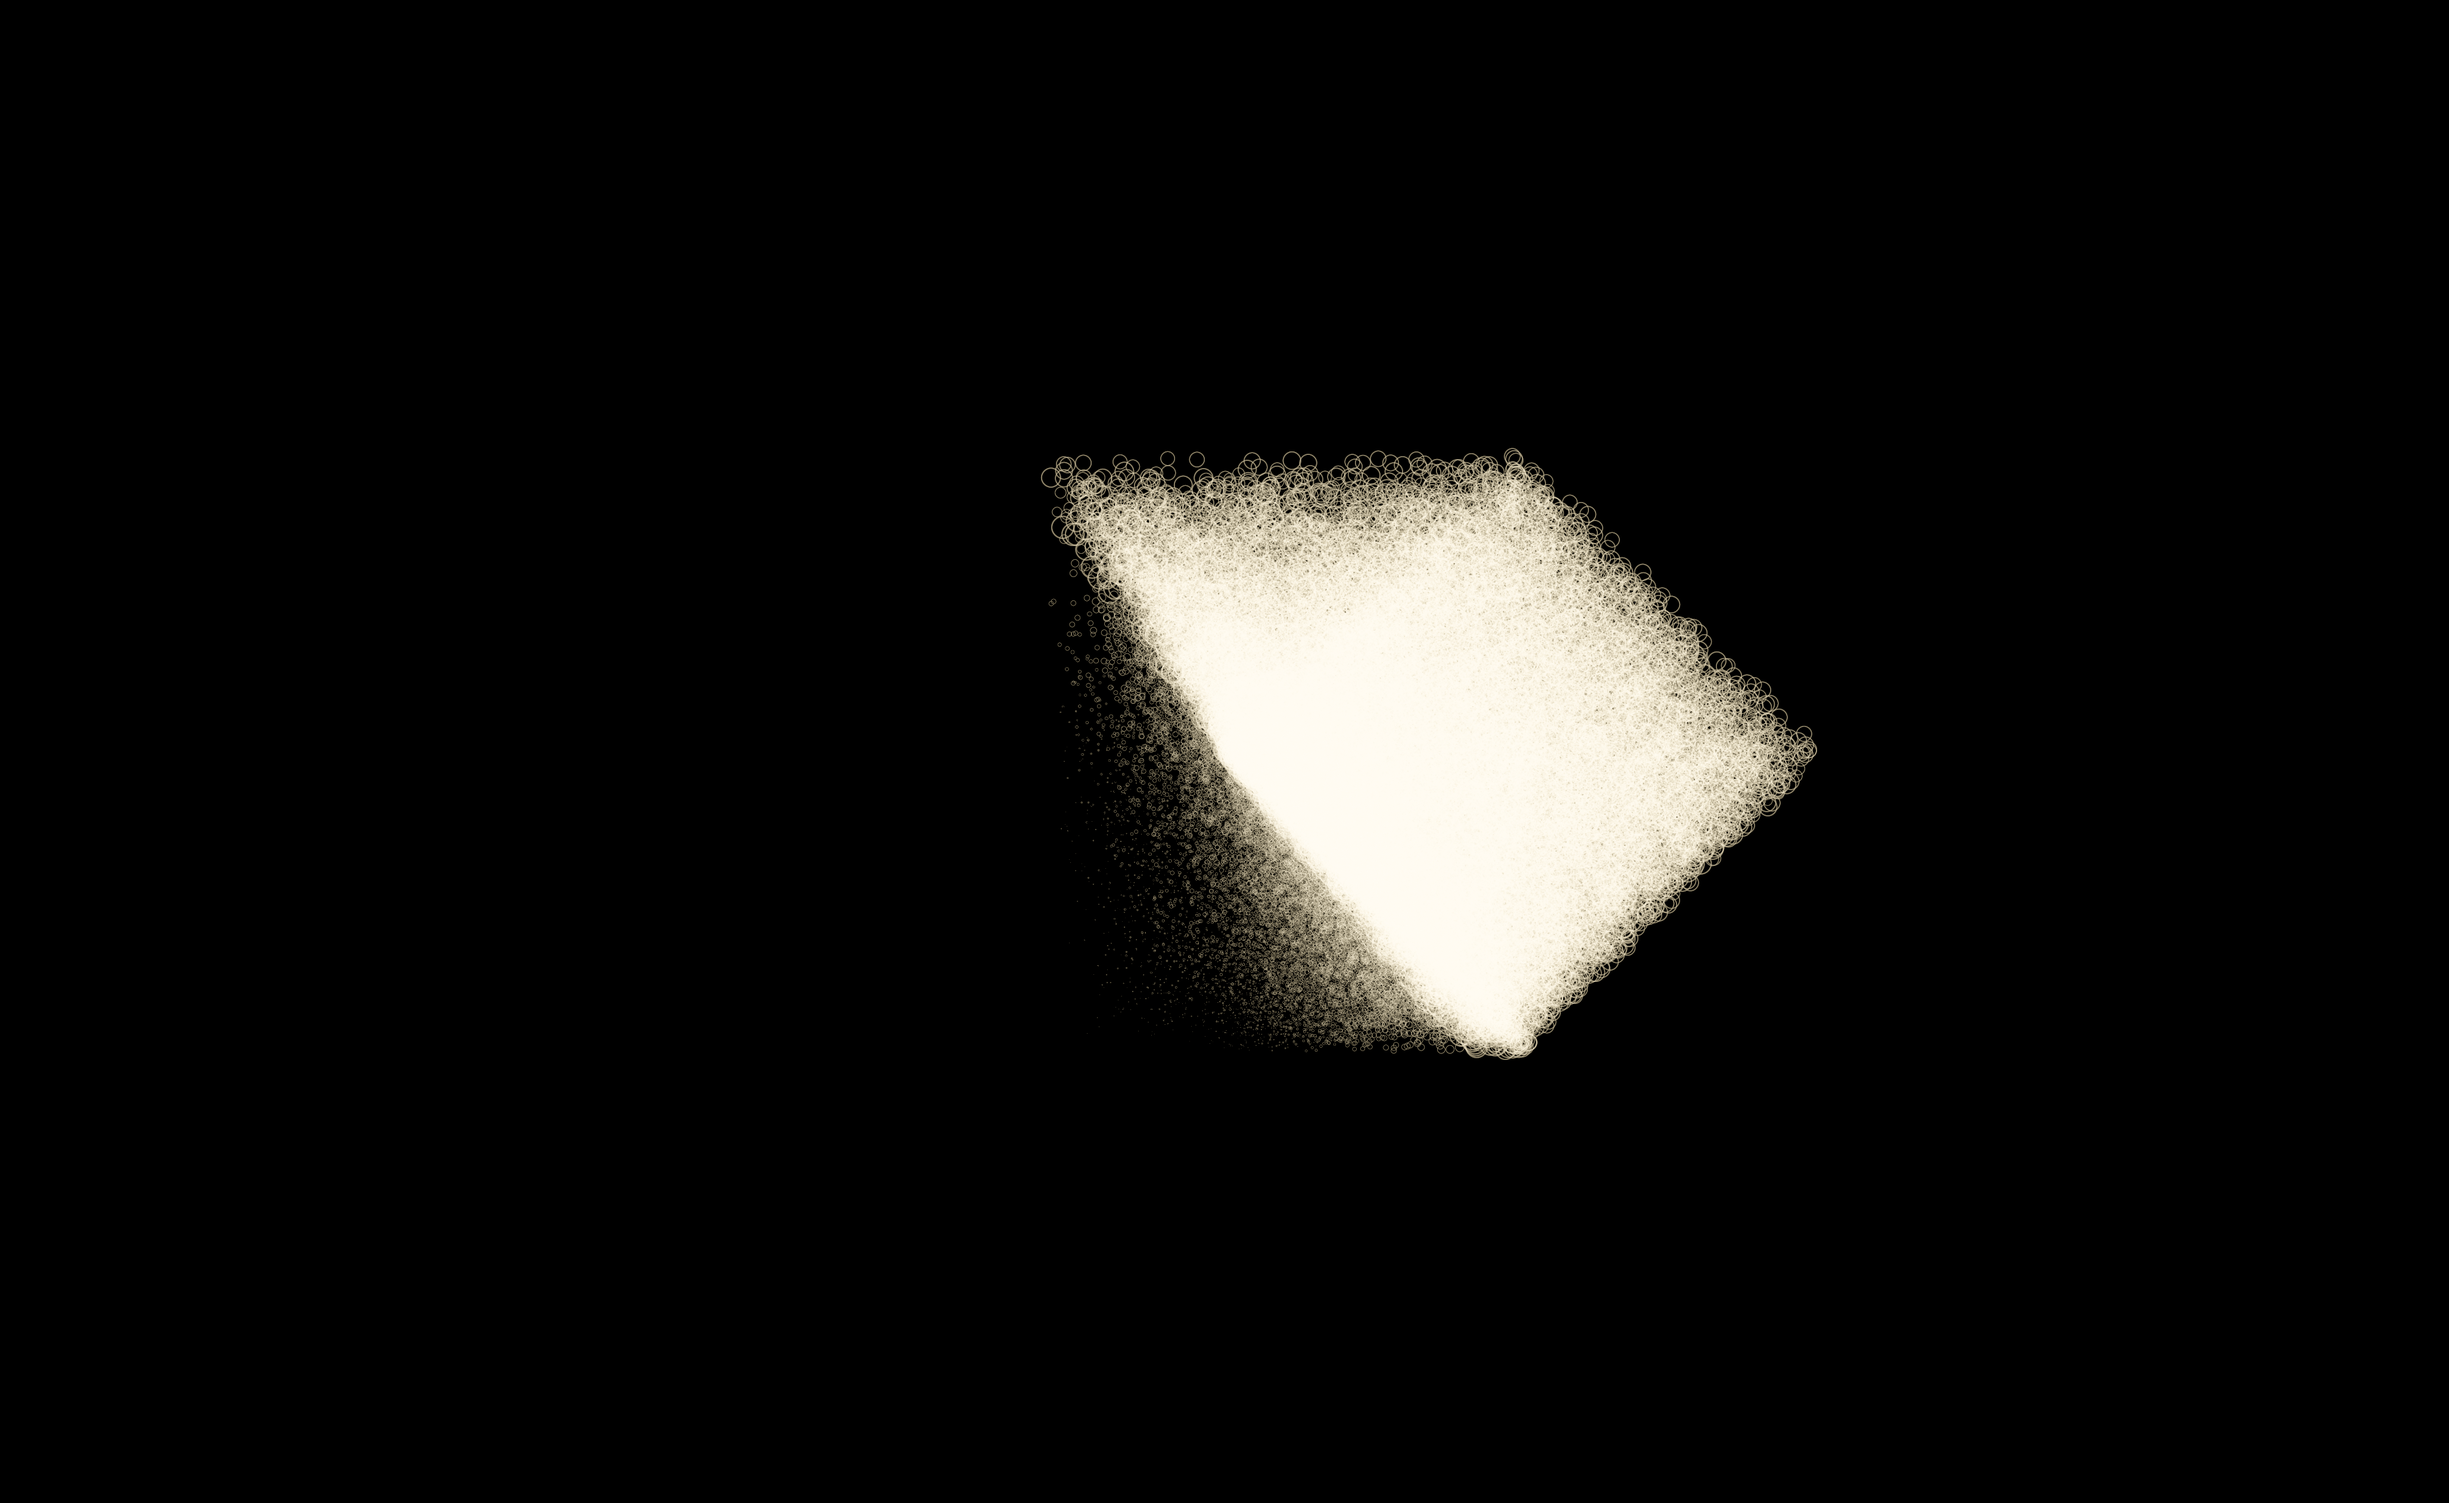
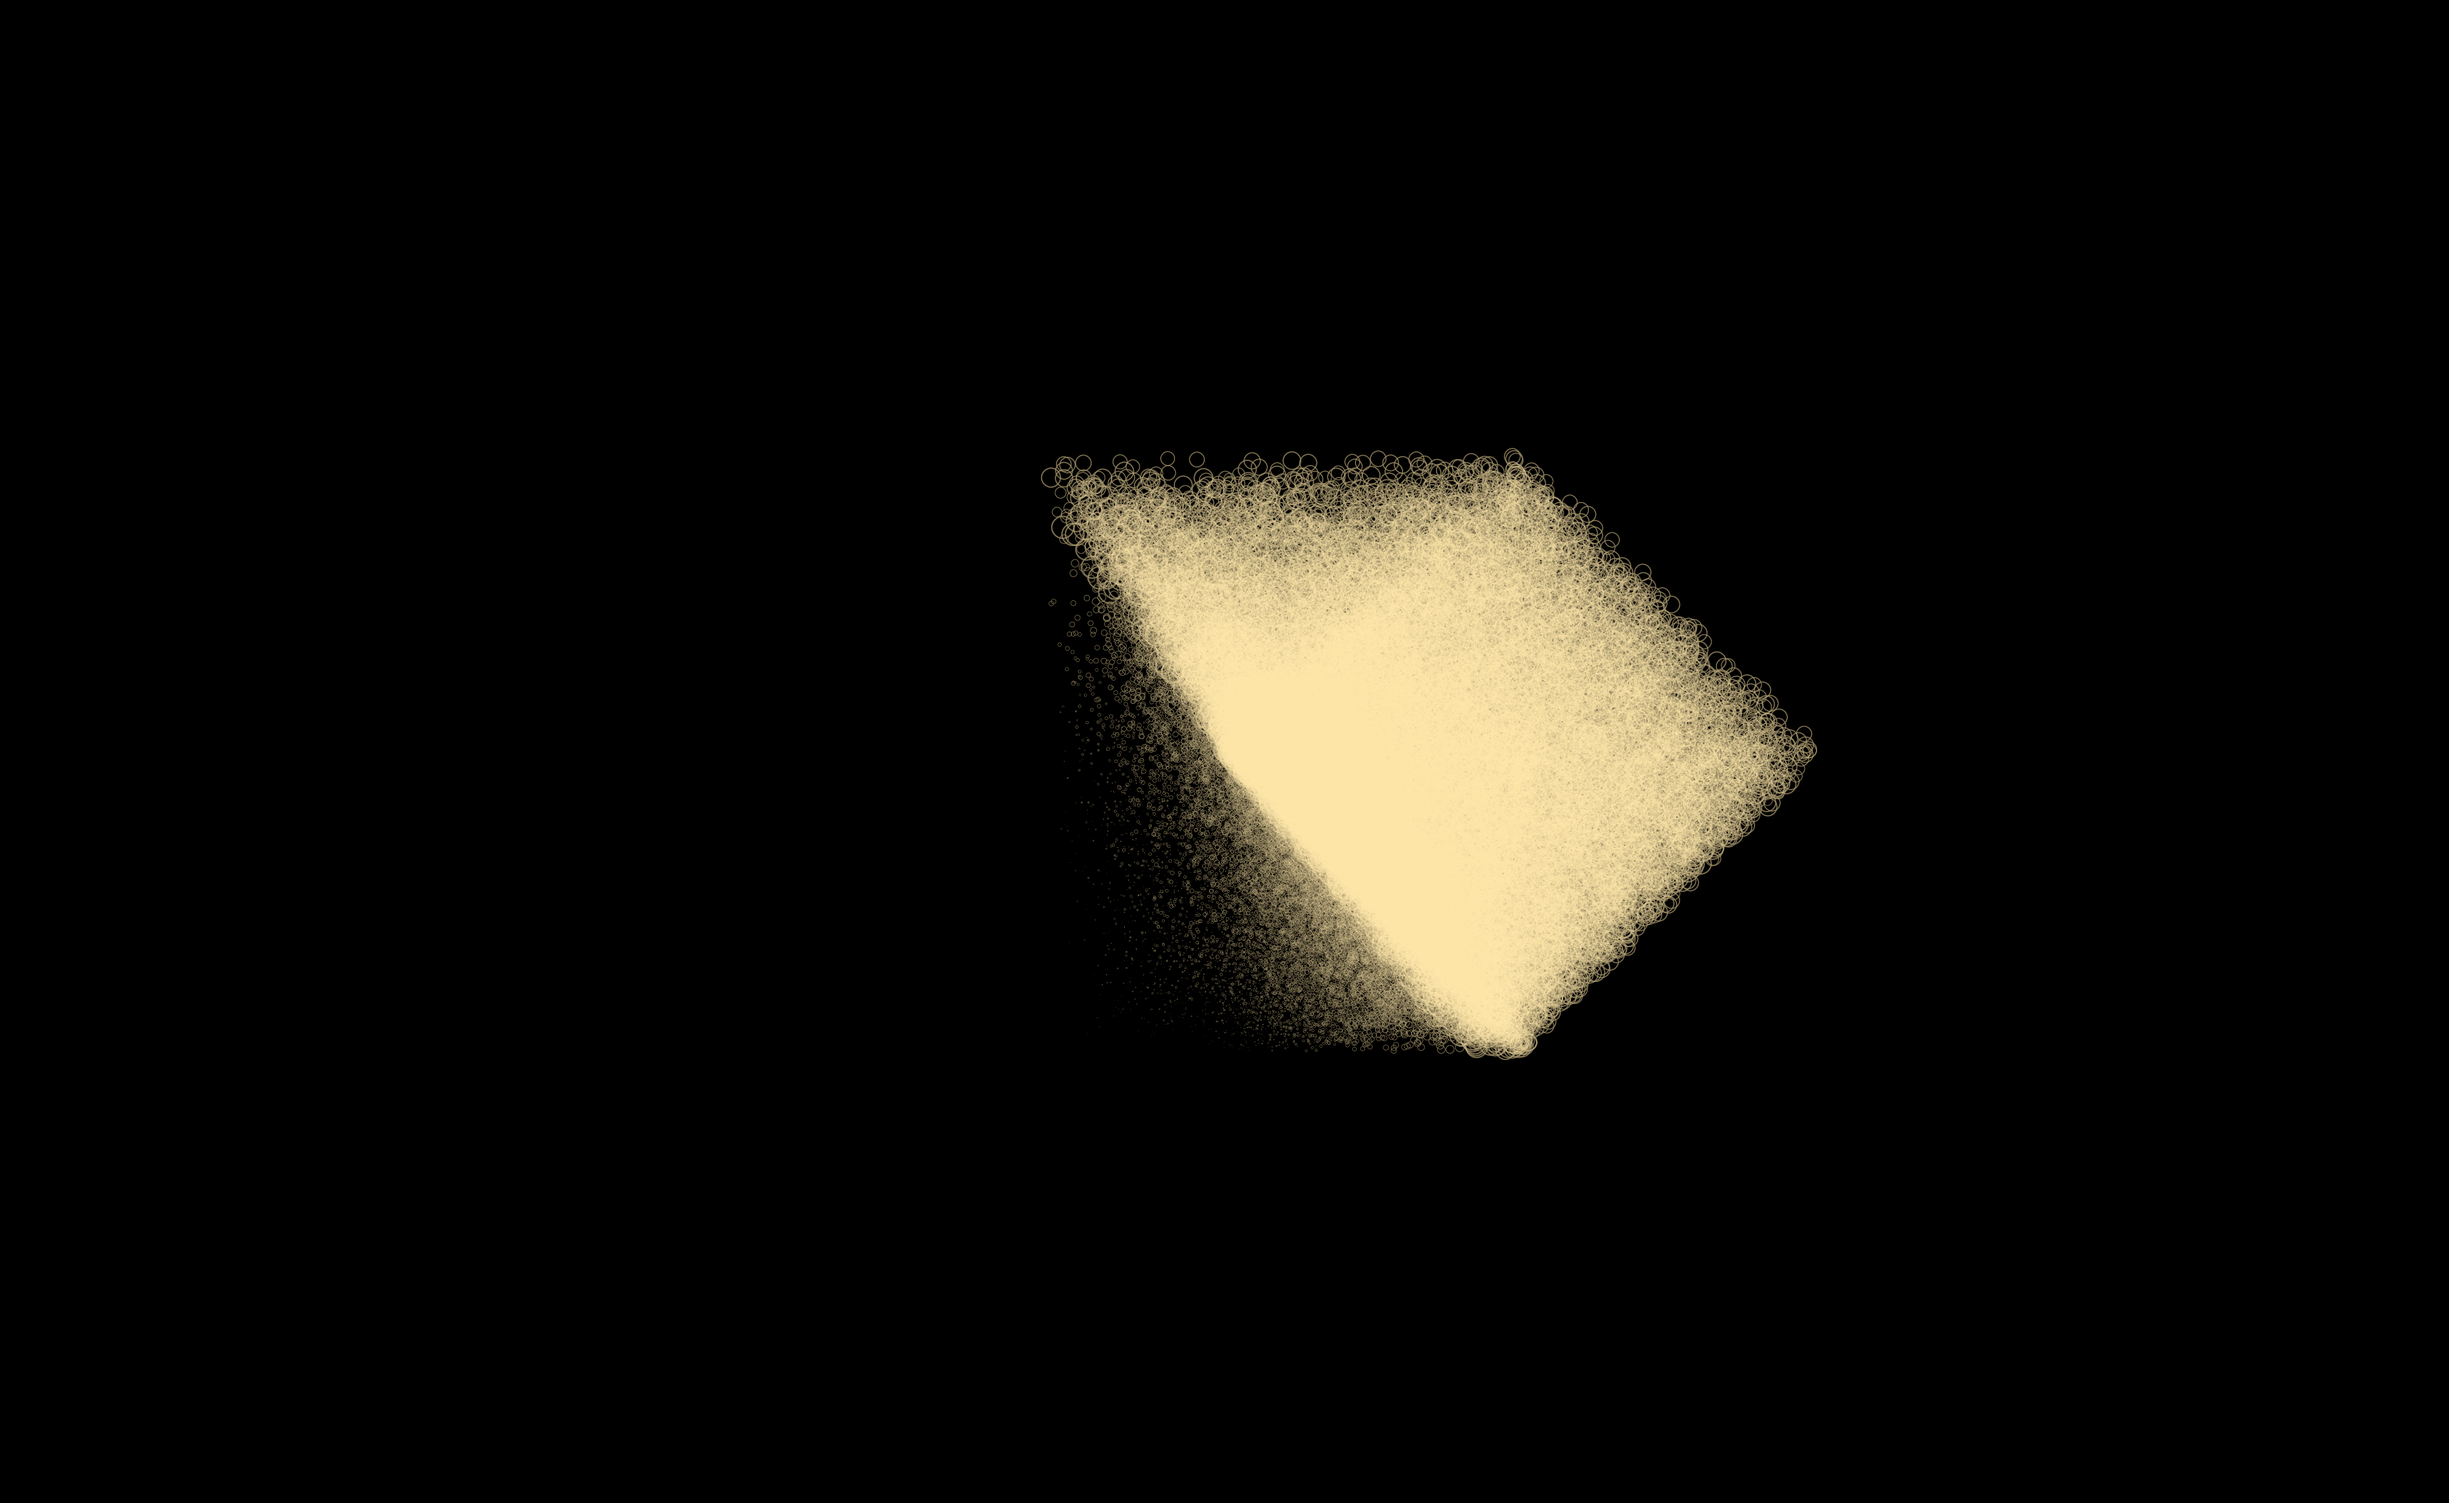
Window captures are opaque; stop shipping their leftover alpha
Found by the human noticing a served figure looked different in Chrome than in
an agent harness, and different again -- much brighter -- in a new tab.

`PngEncoder.encodeFromBuffer` packed the readback's alpha byte straight into the
PNG. For a *presented* surface that byte is leftover per-fragment coverage, not
transparency: a window on screen is opaque by definition. Shipping it makes the
image's appearance a function of the viewer's background.

Measured on the three affected figures before the fix:

  gpu_state/particle-field.png        29.49% of pixels 0<a<255   1.93x brighter on white
  gpu_state/flat-fbm.png              22.66%                     2.99x
  field_probes/particles-galaxy.png    7.97%                     3.28x

`frac(alpha == 0)` was exactly 0.000000 in all three, so no pixel was ever meant
to be transparent, which is what makes forcing alpha lossless in intent rather
than a judgement call. Opaque geometry captures were unaffected -- their
swapchain alpha is already 1.0 -- which is why this survived as long as the
field_probes page has existed.

`encodeFromBuffer` gains `opaque: Boolean = false`. Set true at the three call
sites that read back a presented surface: the direct window capture in
`Renderer.writeWindowCapturePng` (the docs-capture path that produced all three)
and `Window`'s two whole-framebuffer readbacks. `FourVisualizers`'s texture
thumbnail is deliberately left alone -- that is a preview of an arbitrary
[…]

Changed region(s): [[0.4358, 0.309, 0.7471, 0.7108]]

diff --git a/src/jvmMain/kotlin/afield/util/PngEncoder.kt b/src/jvmMain/kotlin/afield/util/PngEncoder.kt
@@ -53,23 +53,52 @@ object PngEncoder {
      * @param height Image height in pixels
      * @param flipY When true, invert row order for framebuffer-style readbacks whose
      * origin is bottom-left. Vulkan image-to-buffer readbacks usually want false.
+     * @param opaque When true, force every pixel's alpha to 255 and ignore the source alpha.
+     *
+     * Pass `true` for any readback of a *presented* or otherwise composited surface — a swapchain
+     * image, a whole-window framebuffer. Such a surface is opaque by definition, and its alpha
+     * channel is leftover per-fragment coverage rather than transparency anyone meant to keep.
+     *
+     * Shipping that leftover is not cosmetic. Measured 2026-08-29 across the 207 RGBA PNGs under
+     * `public/docs/assets`: exactly three had non-opaque alpha, and all three were alpha-blended
+     * particle scenes captured through this function (`gpu_state/particle-field.png` 29.5% of pixels
+     * partially transparent, `gpu_state/flat-fbm.png` 22.7%, `field_probes/particles-galaxy.png`
+     * 8.0%). `frac(alpha == 0)` was exactly 0 in all three, so nothing was ever meant to be
+     * transparent. The effect is that the image's appearance becomes a function of the viewer's
+     * background: those figures render up to **3.28x brighter** on a white page than on a dark one,
+     * which is how the bug was found -- the same file looked like two different pictures in a docs
+     * page and in a browser tab. Opaque geometry captures were unaffected, because their swapchain
+     * alpha happens to already be 1.0, which is why this went unnoticed for as long as the
+     * `field_probes` page has existed.
+     *
+     * Forcing alpha also shrinks the file, because a constant channel compresses to nothing:
+     * `flat-fbm.png` went 7,208,908 -> 2,720,375 bytes, 2.65x smaller, with identical RGB.
      * @return ByteArray containing the complete PNG file data
      */
-    fun encodeFromBuffer(buffer: ByteBuffer, width: Int, height: Int, flipY: Boolean = false): ByteArray {
+    fun encodeFromBuffer(
+        buffer: ByteBuffer,
+        width: Int,
+        height: Int,
+        flipY: Boolean = false,
+        opaque: Boolean = false
+    ): ByteArray {
         // Reset buffer position
         buffer.rewind()
-        
+
         // Create ARGB array (PNG encoder expects ARGB ints)
         val pixels = IntArray(width * height)
-        
+
         // Read pixels, optionally flipping vertically.
         for (y in 0 until height) {
             for (x in 0 until width) {
                 val r = buffer.get().toInt() and 0xFF
                 val g = buffer.get().toInt() and 0xFF
                 val b = buffer.get().toInt() and 0xFF
-                val a = buffer.get().toInt() and 0xFF
-                
+                // Always consume the source alpha byte -- the buffer is packed RGBA and the read
+                // must advance whether or not the value is used.
+                val sourceAlpha = buffer.get().toInt() and 0xFF
+                val a = if (opaque) 0xFF else sourceAlpha
+
                 val argb = (a shl 24) or (r shl 16) or (g shl 8) or b
                 val targetY = if (flipY) height - 1 - y else y
                 pixels[x + targetY * width] = argb

diff --git a/src/jvmMain/kotlin/afield/four/util/Window.kt b/src/jvmMain/kotlin/afield/four/util/Window.kt
@@ -394,7 +394,7 @@ class Window(val title : String, val fullscreen : Boolean = false, initialDimens
 
             // Preserve the caller's row order: every readback in this repo is top-down.
             // See CaptureOrientation for the per-path table.
-            val pngBytes = PngEncoder.encodeFromBuffer(imageData, width, height, flipY = false)
+            val pngBytes = PngEncoder.encodeFromBuffer(imageData, width, height, flipY = false, opaque = true)
             Files.write(tempFile.toPath(), pngBytes, StandardOpenOption.WRITE)
 
             return tempFile
@@ -423,7 +423,7 @@ class Window(val title : String, val fullscreen : Boolean = false, initialDimens
 
         return try {
             // Preserve the caller's row order — see CaptureOrientation.
-            val pngBytes = PngEncoder.encodeFromBuffer(imageData, width, height, flipY = false)
+            val pngBytes = PngEncoder.encodeFromBuffer(imageData, width, height, flipY = false, opaque = true)
             Base64.getEncoder().encodeToString(pngBytes)
         } catch (e: Exception) {
             System.err.println("Failed to get framebuffer as base64 PNG: ${e.message}")

diff --git a/src/jvmMain/kotlin/afield/four/Renderer.kt b/src/jvmMain/kotlin/afield/four/Renderer.kt
@@ -1086,7 +1086,10 @@ class Renderer(
             capture.width,
             capture.height,
             // vkCmdCopyImageToBuffer preserves the presented swapchain's top-to-bottom row order.
-            flipY = false
+            flipY = false,
+            // A presented swapchain image is opaque; its alpha is leftover fragment coverage. Keeping
+            // it made three docs figures render up to 3.28x brighter on white than on the dark page.
+            opaque = true
         )
         val encodeMs = SaveReloadLog.elapsedMillis(startedAt)
         val writeStartedAt = System.nanoTime()
